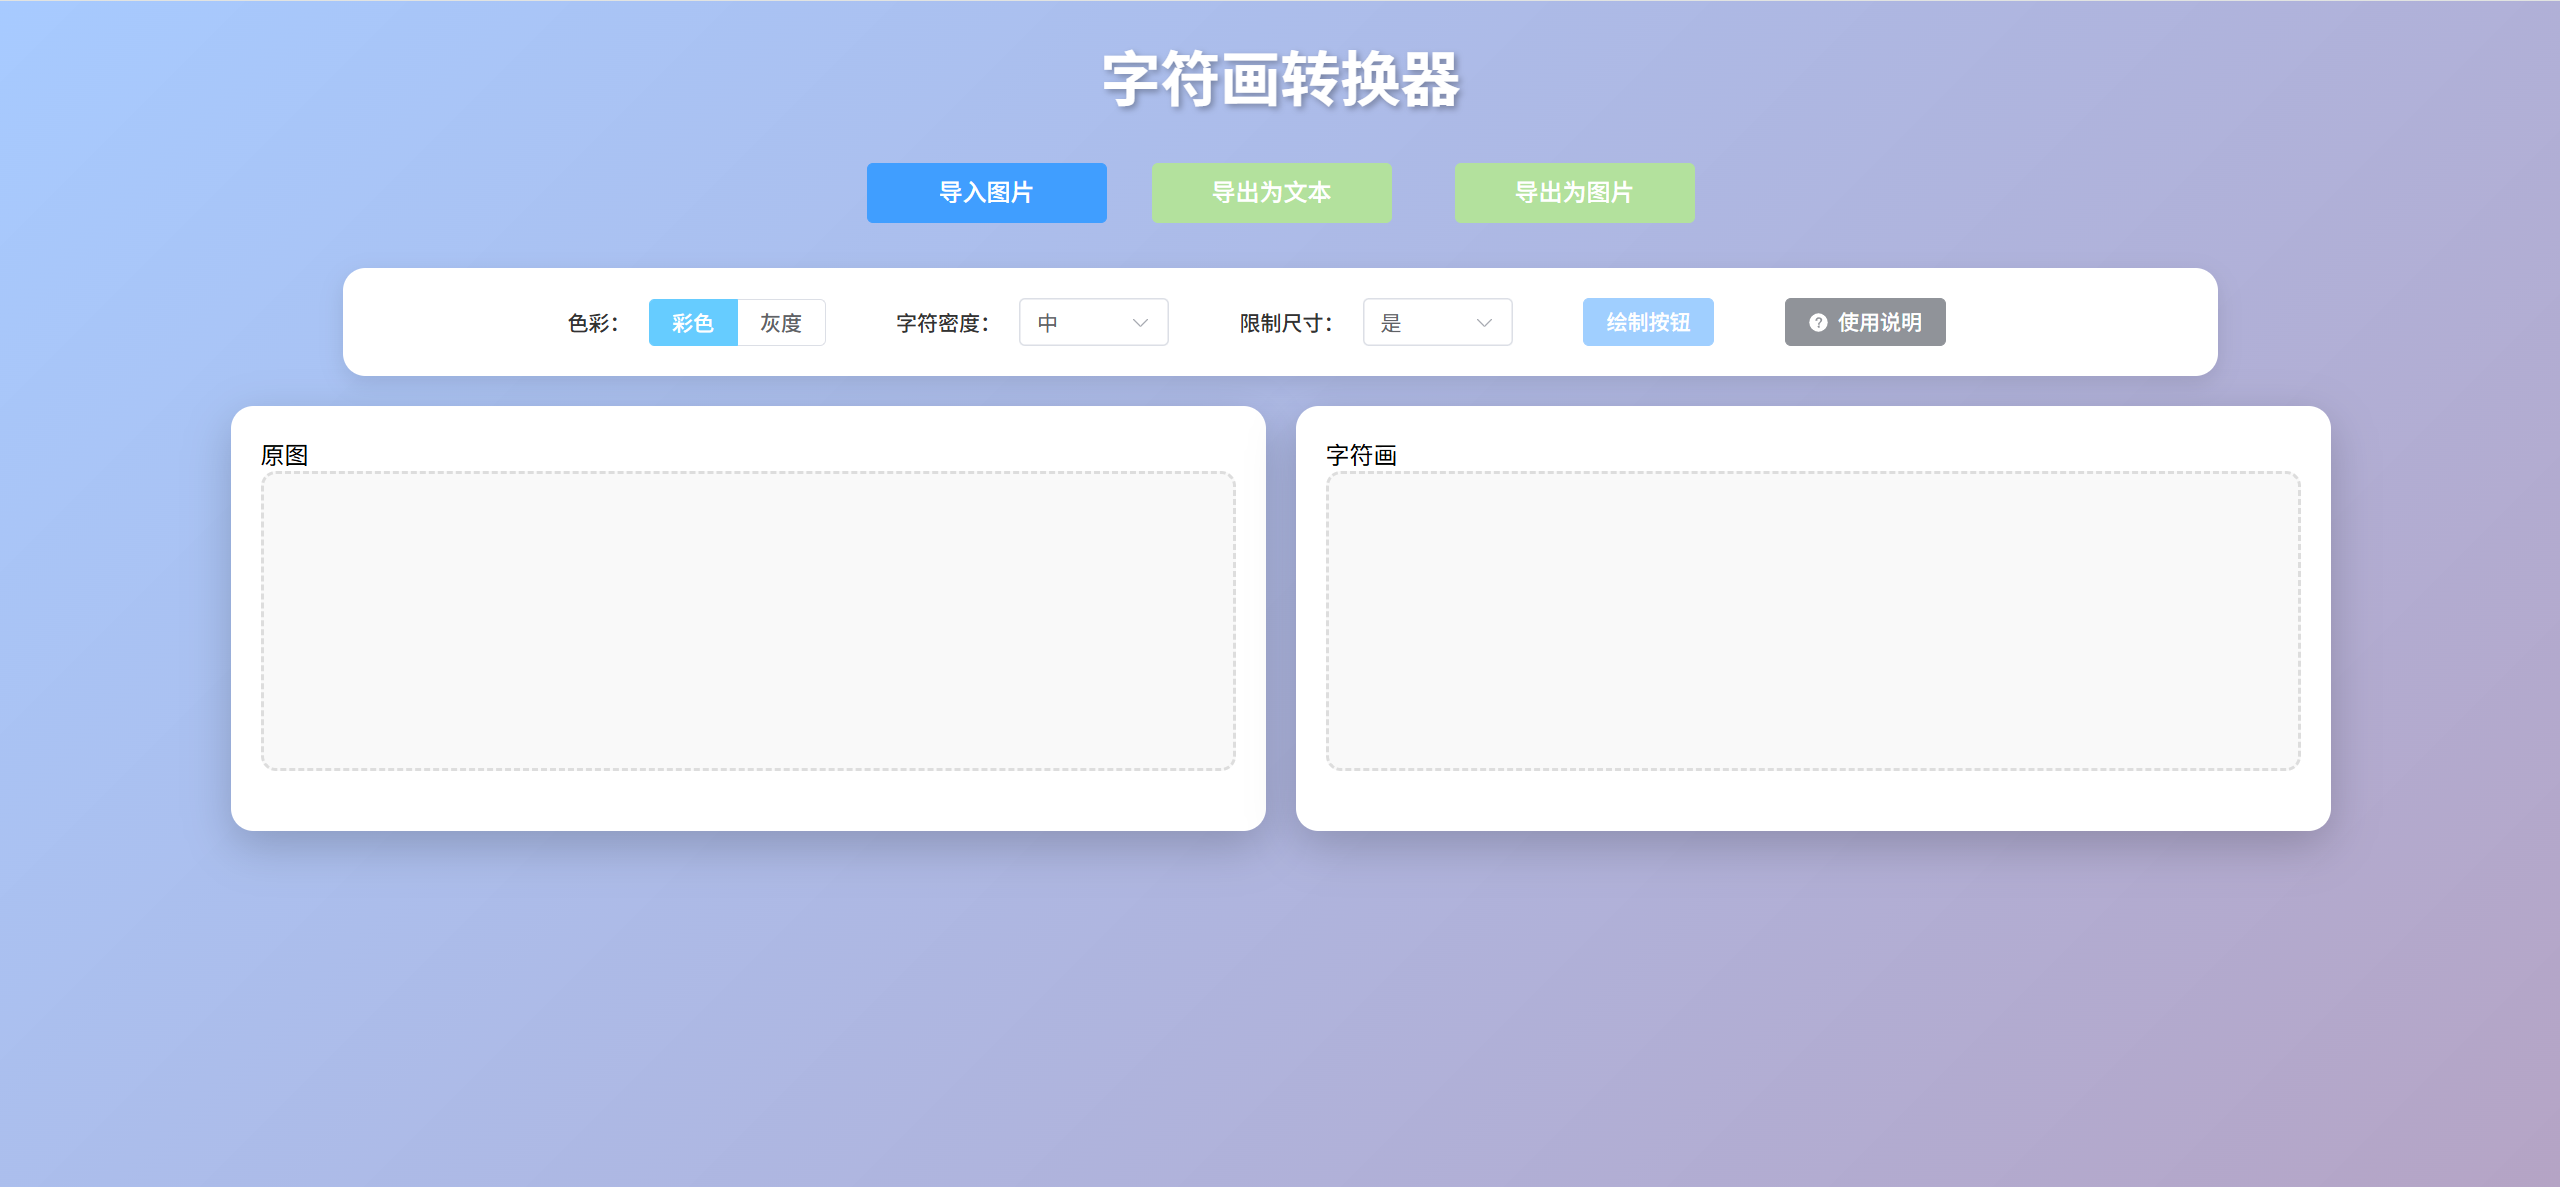
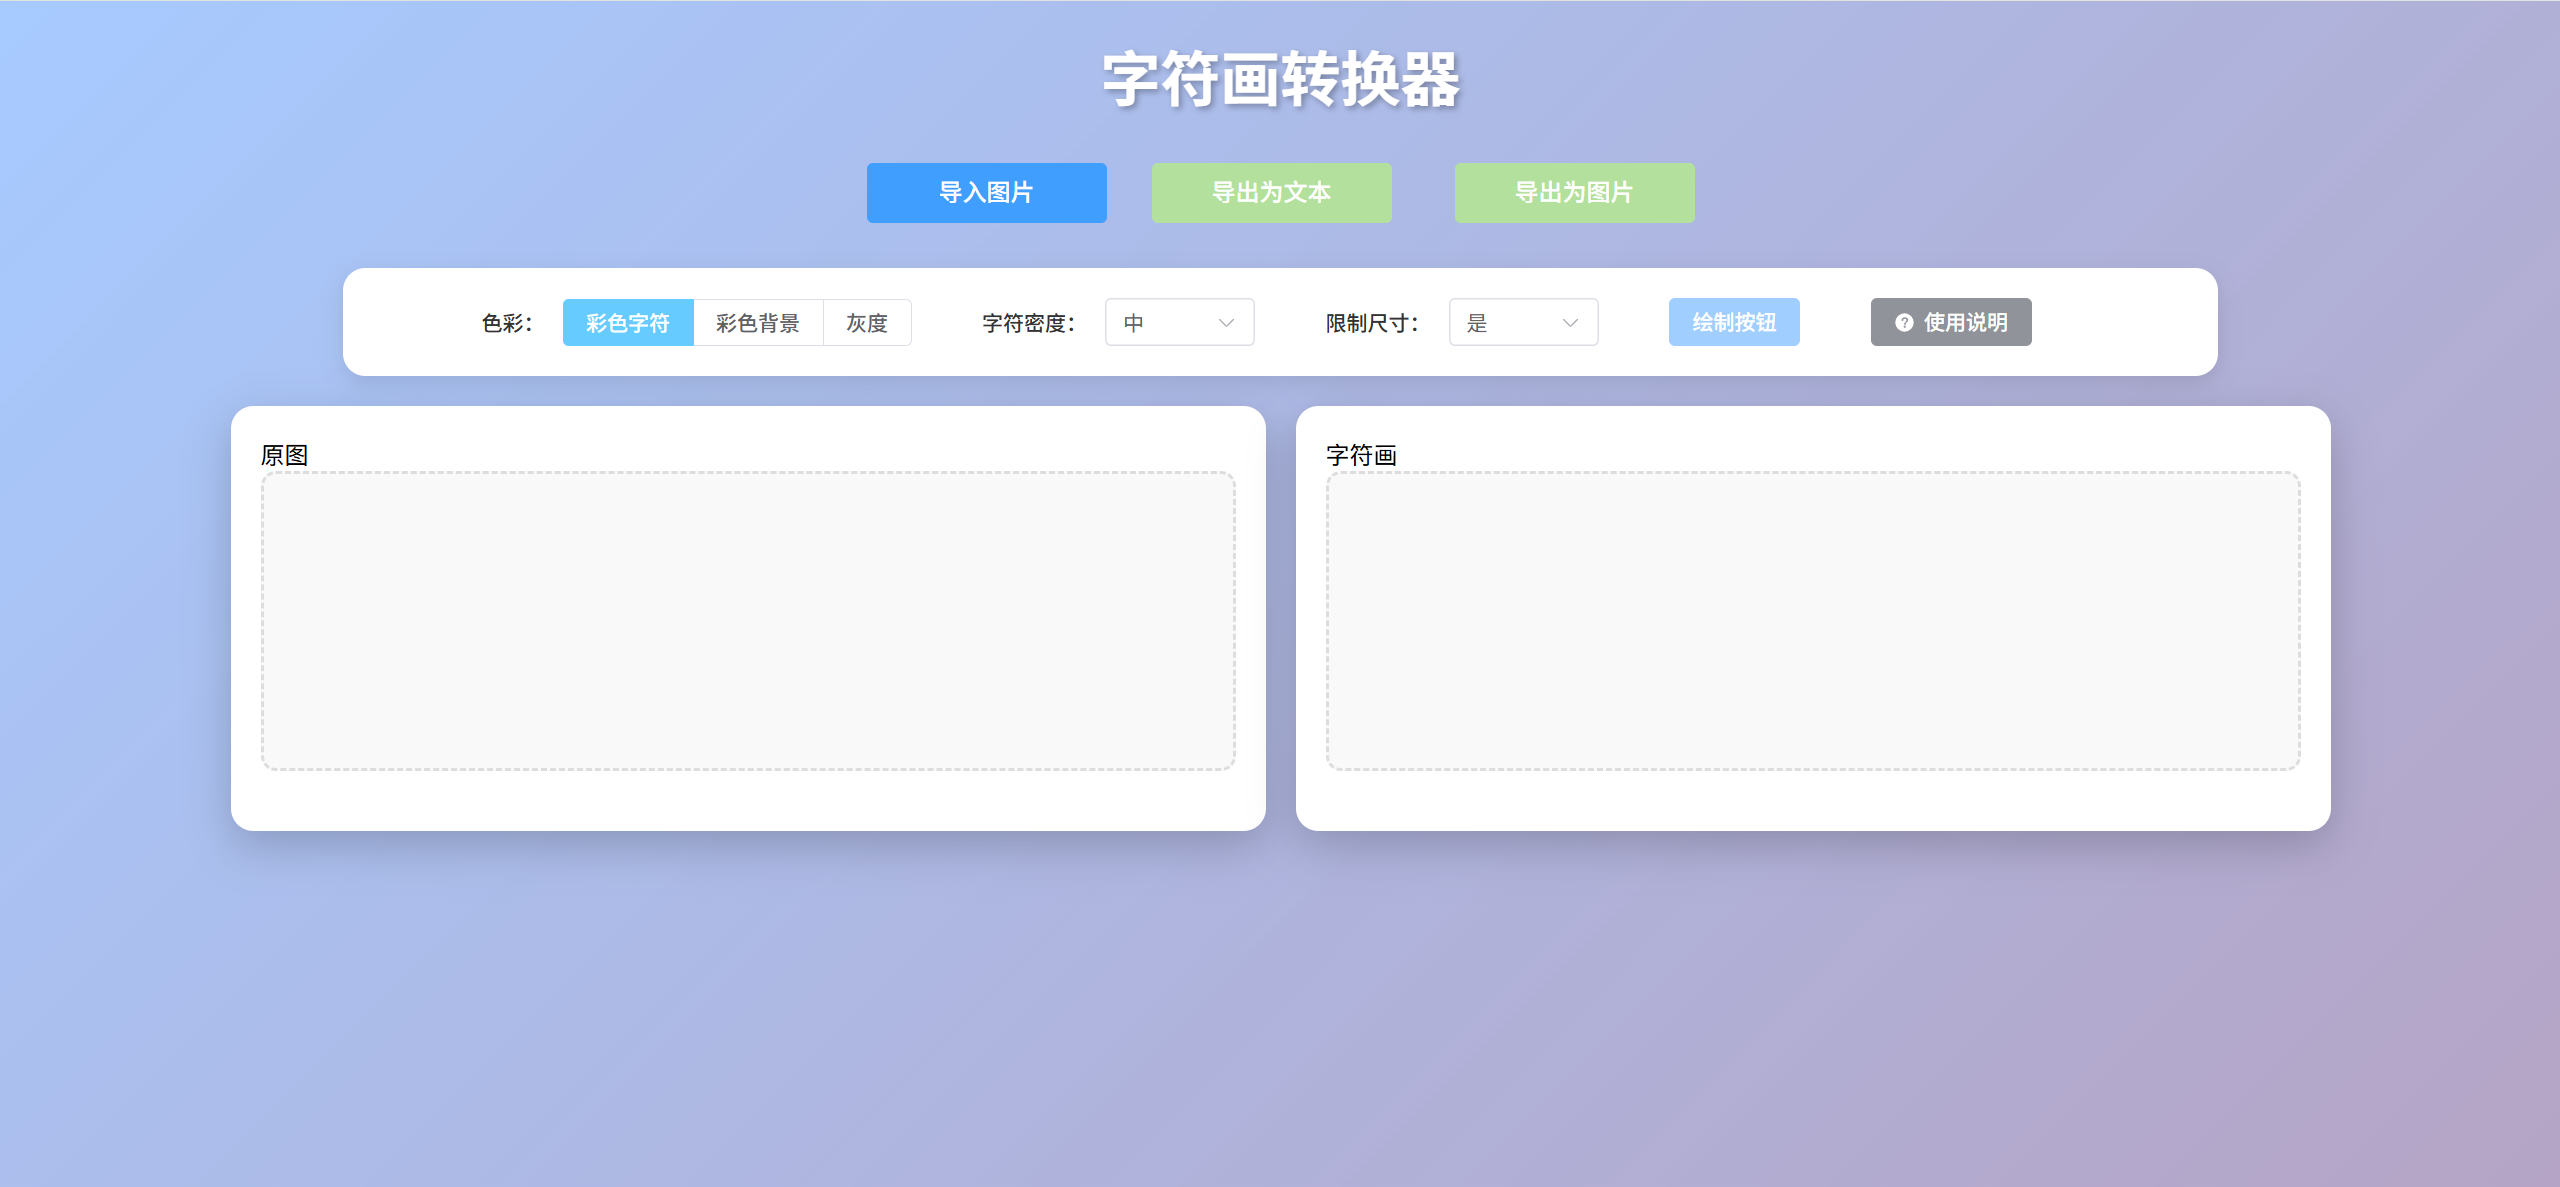
更新README截图及项目结构说明

Changed region(s): [[0.4688, 0.2494, 0.8125, 0.3117], [0.1875, 0.2494, 0.4375, 0.3117]]

diff --git a/README.md b/README.md
@@ -46,13 +46,19 @@
 
 ![主界面](./img/image1.png)
 
-![转换过程](./img/image2.png)
+![导出选项](./img/image2.png)
 
-![字符画结果](./img/image3.png)
+![使用说明](./img/image3.png)
 
-![导出选项](./img/image4.png)
+![字符画转换过程](./img/image4.png)
 
-![GIF动图转换](./img/image5.gif)
+![彩色字符模式](./img/image5.png)
+
+![彩色背景模式](./img/image6.png)
+
+![灰度模式](./img/image7.png)
+
+![动图转换结果](./img/image8.gif)
 
 ## 项目结构
 
@@ -104,13 +110,6 @@ char-art-converter/
 │   ├── Dockerfile                # Docker镜像构建文件
 │   ├── main.py                   # 应用入口
 │   └── requirements.txt          # Python依赖
-│
-├── img/                          # 项目截图
-│   ├── image1.png                # 主界面截图
-│   ├── image2.png                # 转换过程截图
-│   ├── image3.png                # 字符画结果截图
-│   ├── image4.png                # 导出选项截图
-│   └── image5.gif                # GIF动图转换演示
 │
 ├── Docker.md                     # Docker部署详细文档
 ├── Dockerfile                    # 一体化Docker镜像构建文件
